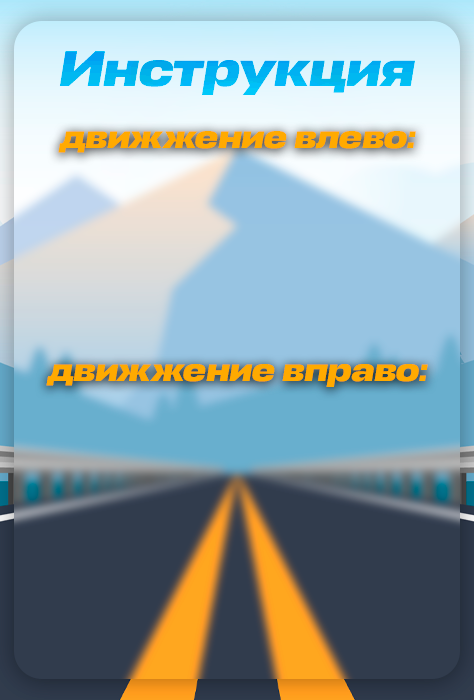
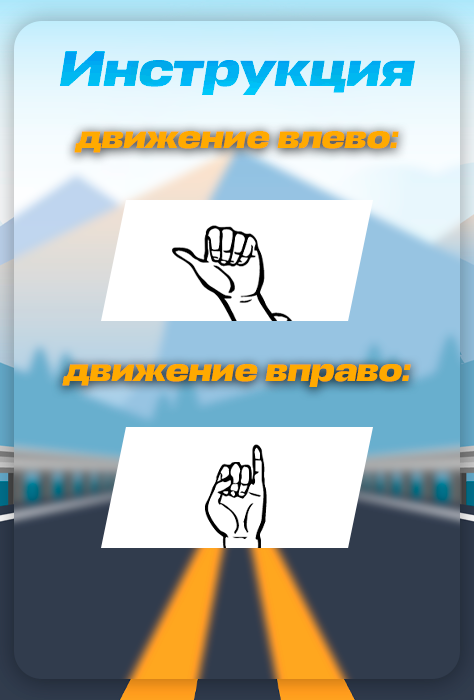
changed asset of main car

diff --git a/racer.py b/racer.py
@@ -8,6 +8,7 @@ from pygame import K_RIGHT, K_LEFT, K_SPACE, K_ESCAPE, K_a, K_d, KEYUP, KEYDOWN,
 
 # ==  Button Class  ==========================================================
 class button():
+
     """ Used to Create a button on the screen """
 
     def __init__(self, colour, x, y, width, height, text=" ", font_size=30, font_colour=(0, 0, 0)):
@@ -38,8 +39,7 @@ class button():
 # == Functions Used to Play game ==============================================
 def import_assets():
     """Import all the Required assets for the game"""
-    global playerImg, Car1, Car2, Car3, Car4, Car5, screen, path, background_home, background, road, Road2,\
-        instruction_image, crash, crash_sound
+    global playerImg, Car1, Car2, Car3, Car4, Car5, screen, path, background_home, background, help_bk, road, Road2, crash, crash_sound
     # Set the Directory path of the files, to get all the required assets for the game
     path = 'C:\\Users\\Honor\\Documents\\cv_game\\Assets\\Racer\\'
     try:
@@ -70,9 +70,8 @@ def import_assets():
             f"{path}", "road4lane.png"))                  # Road Image 1
         Road2 = pygame.image.load(join(
             f"{path}", "road4lane.png"))                 # Road Image 1
-        instruction_image = pygame.image.load(join(
-            f"{path}",'help_bk.png')) # Replace with your image path
-        instruction_image = pygame.transform.scale(instruction_image, (474, 700))
+        help_bk = pygame.image.load(join(
+            f"{path}", "help_bk.png"))                 # Road Image 1
         # Icon of the Game
         icon = pygame.image.load(join(f"{path}", 'Icon.png'))
         # Set Icon of the Game
@@ -97,7 +96,7 @@ def game_init():
     Screen_Widht, Screen_Height = 700, 700
     screen = pygame.display.set_mode((Screen_Widht, Screen_Height))
     # Set Caption of the Game
-    pygame.display.set_caption('Гонщик')
+    pygame.display.set_caption('Traffic_racer_car')
 
 # ============================================================================
 
@@ -126,11 +125,143 @@ def show_score():
     """Shows Score and Level on the Screen"""
     text_colour = (220, 47, 2)
     score_font = pygame.font.SysFont('benzin extrabold', 25, italic=True)
-    score = score_font.render("Score : " + str(score_value), True, text_colour)
-    screen.blit(score, (190, 0))
-    level = score_font.render(f"Level:- {level_value}", True, text_colour)
-    screen.blit(level, (420, 0))
+    score = score_font.render("Счет : " + str(score_value), True, text_colour)
+    screen.blit(score, (180, 0))
+    level = score_font.render(f"Уровень: {level_value}", True, text_colour)
+    screen.blit(level, (400, 0))
 
+# ============================================================================
+
+def Game_screen():
+    """Play Screen of the Game"""
+    global playerImg, Car1, Car2, Car3, Car4, Car5, other_cars, screen, playerX, playerY, playerX_change, score_value, level_value, cars_start_X, cars_start_y, background, road, Road2, crash, crash_sound, Screen_Widht, Screen_Height
+    Game_run_screen, Finnish, Exitt, home_start = True, False, False, False
+    speed_of_car, playerx_varchange, road_Y = 2, 5, 30
+    # = Screen Top Part ======================================================
+    # Top Screen-Part colour
+    top_colour = (241, 250, 238)
+    Home_Button = button(top_colour, 5, 2, 80, 25,
+                         text="Домой", font_size=20)     # Home Button
+    Exit_Button = button(top_colour, 615, 2, 80, 25,
+                         text="Выйти", font_size=20)   # Exit Button
+
+    Enemy_car = Enemy_car_coordinate()
+
+    # Play the Back-ground Music
+    mixer.music.load(join(f"{path}", "Assets\\back_music.wav"))
+    mixer.music.play(-1)
+
+    # Enemy Car's Images, it's X & Y Co-ordinates List, with First Enemy car too
+    car_enemy, car_enemy_x, car_enemy_y = [
+        Enemy_car[0]], [Enemy_car[1]], [Enemy_car[2]]
+
+    while Game_run_screen:
+        score_value_in = 0
+        # == Roads Y Co-ordinate ==========================
+        Road2_y = road_Y - Road2.get_height()
+        road_Y = road_Y % 620
+        # == Screen Background ===========================
+        pygame.draw.rect(screen, (94, 100, 114), [78, 0, 548, 680])
+        # Background Image
+        screen.blit(background, (0, 30))
+        # Road Image 1
+        screen.blit(road, (78, road_Y))
+        # Road Image 2
+        screen.blit(Road2, (78, Road2_y))
+
+        # =====================================================================
+        home_Button_button_active = Home_Button.hover(pygame.mouse.get_pos())
+        exit_Button_button_active = Exit_Button.hover(pygame.mouse.get_pos())
+
+        Home_Button.font_colour = (
+            235, 210, 5) if home_Button_button_active else (0, 0, 0)
+        Exit_Button.font_colour = (
+            255, 0, 0) if exit_Button_button_active else (0, 0, 0)
+        # =====================================================================
+
+        # Обработка событий в игровом цикле
+        for event in pygame.event.get():
+            if event.type == pygame.QUIT:  # Закрытие игры
+                Game_run_screen, Exitt = False, True
+
+            if event.type == pygame.MOUSEBUTTONDOWN:  # Клик мышью
+                if home_Button_button_active:
+                    Game_run_screen, home_start = False, True
+                if exit_Button_button_active:
+                    Game_run_screen, Exitt = False, True
+
+
+
+        if event.type == MOUSEBUTTONDOWN:          # Button's Click
+            if home_Button_button_active:
+                Game_run_screen, home_start = False, True
+            if exit_Button_button_active:
+                Game_run_screen, Exitt = False, True
+        # =====================================================================
+        playerX += playerX_change
+        # If Car Reaches at Left/Right Side of the Road stop moving car Left/Right
+        if playerX <= 130:
+            playerX = 130
+        elif playerX >= 515:
+            playerX = 515
+        # ==== Showing Non-Player on the Screen and check for collision with them ====
+        for x in range(len(car_enemy)):
+            # => Showing Non Player car on the Screen
+            screen.blit(car_enemy[x], (car_enemy_x[x], car_enemy_y[x]))
+            # ==  If Car not collided and at bottom of the screen  ===================
+            if car_enemy_y[x] >= 650:
+                car_enemy[x], car_enemy_x[x], car_enemy_y[x] = Enemy_car_coordinate()
+                score_value_in += 1
+                car_enemy_x.append(car_enemy_x[x])
+                car_enemy_y.append(car_enemy_y[x])
+                if score_value % 5 == 0 and score_value != 0:
+                    level_value += 1
+                    speed_of_car += 1
+                    playerx_varchange += 2
+                    if level_value < 3:
+                        Enemy_car0 = Enemy_car_coordinate()
+                        car_enemy.append(Enemy_car0[0])
+                        car_enemy_x.append(Enemy_car0[1])
+                        car_enemy_y.append(Enemy_car0[2])
+            # ======================================================================
+            # => Check for Collision
+            Collild = isCollision(
+                car_enemy_x[x], car_enemy_y[x], playerX, playerY)
+            if Collild:
+                screen.blit(crash, ((Screen_Widht/2 - crash.get_width()/2),
+                            (Screen_Height/2 - (crash.get_height()+1 / 2))))
+                crash_sound.play()
+                Finnish = True
+            car_enemy_y[x] += speed_of_car
+        if score_value_in >= 1:
+            score_value += 1
+            score_value_in = 0
+        # ==============================================
+        # Showing Player on the Screen
+        screen.blit(playerImg, (playerX, playerY))
+        # Rectangle at the Top of the screens
+        pygame.draw.rect(screen, top_colour, [0, 0, 700, 30])
+        # Blitting Home Button on the screen
+        Home_Button.draw(screen)
+        # Blitting Exit Button on the screen
+        Exit_Button.draw(screen)
+        # Show Score on the Top
+        show_score()
+        # Rectangle at the Bottom of the screen
+        pygame.draw.rect(screen, (145, 124, 111), [0, 680, 700, 50])
+        road_Y += speed_of_car                                      # Scrooling Road
+        # =====================================================================
+        pygame.display.update()
+        # =====================================================================
+        if Finnish:  # => If car's had collided then Game get's Finished
+            playerX_change = 0
+            sleep(1)
+            score_value, level_value = 0, 1
+            Game_run_screen, home_start = False, True
+        if home_start:
+            Home_screen()
+        if Exitt:
+            quit()
 # ============================================================================
 def Game_screen():
     """Play Screen of the Game"""
@@ -141,9 +272,9 @@ def Game_screen():
     # Top Screen-Part colour
     top_colour = (241, 250, 238)
     Home_Button = button(top_colour, 5, 2, 80, 25,
-                         text="Home", font_size=20)     # Home Button
+                         text="Назад", font_size=20)     # Home Button
     Exit_Button = button(top_colour, 615, 2, 80, 25,
-                         text="Exit", font_size=20)   # Exit Button
+                         text="Выход", font_size=20)   # Exit Button
 
     Enemy_car = Enemy_car_coordinate()
 
@@ -261,7 +392,7 @@ def Game_screen():
         if home_start:
             Home_screen()
         if Exitt:
-            return
+            quit()
 
 
 
@@ -270,9 +401,9 @@ def Home_screen():
     global screen, background_home, instruction_image
     home_run, Game_start, exitt, show_instructions = True, False, False, False
 
-    Game_run = button((255, 0, 0), 10, 600, 175, 125, text="Start")
-    Exit_but = button((255, 0, 0), 565, 600, 175, 125, text="Exit")
-    Instruction_but = button((255, 0, 0), 290, 600, 125, 75, text="Help")
+    Game_run = button((255, 0, 0), 15, 600, 130, 75, text="Старт")
+    Exit_but = button((255, 0, 0), 550, 600, 140, 75, text="Выйти")
+    Instruction_but = button((255, 0, 0), 260, 600, 180, 75, text="Помощь")
 
     while home_run:
         screen.fill((123, 70, 156))
@@ -315,11 +446,12 @@ def Home_screen():
         if show_instructions:
             # Display instruction image
             screen.fill((176, 176, 176))
-
+            # instruction_image = pygame.image.load('help_bk.png')  # Replace with your image path
+            instruction_image = pygame.transform.scale(help_bk, (474, 700))
             screen.blit(instruction_image, (115, 0))
 
             # Create "Back" button
-            Back_but = button((255, 0, 0), 290, 600, 125, 75, text="Back")
+            Back_but = button((255, 0, 0), 282, 600, 140, 75, text="Назад")
             pygame.draw.rect(screen, (18, 18, 18), (270, 588, 164, 100))
             Back_but.draw(screen)
 
@@ -348,7 +480,7 @@ def Home_screen():
         if Game_start:
             Game_screen()
         if exitt:
-            return
+            quit()
 
 # ============================================================================
 def start_racer():

diff --git a/main.py b/main.py
@@ -150,7 +150,7 @@ def start_pygame(test: bool = False) -> None:
                          start_racer)
                          # DIFFICULTY,
                          # pygame.font.Font(pygame_menu.font.FONT_FRANCHISE, 30))
-    play_menu.add.button('Стрелок',  # When pressing return -> play(DIFFICULTY[0], font)
+    play_menu.add.button('Космический защитник',  # When pressing return -> play(DIFFICULTY[0], font)
                          start_space_defender)
                          # DIFFICULTY,
                          # pygame.font.Font(pygame_menu.font.FONT_FRANCHISE, 30))
@@ -311,7 +311,7 @@ def synchronize_windows():
                 print('no windows')
                 break
 
-            opencv_window = gw.getWindowsWithTitle('test')[0]
+            opencv_window = gw.getWindowsWithTitle('1')[0]
 
             # Calculate new positions for the OpenCV window
             new_x = current_pygame_window.left + current_pygame_window.width + 1  # Offset to avoid overlap

diff --git a/cv_gesture.py b/cv_gesture.py
@@ -510,7 +510,7 @@ def gesture_control():
         prev_time = cur_time
         cv2.putText(Main_img, f'FPS:- {int(fps)}', (40, 40), Font_type, Font_size, (90, 140, 185), Font_thickness)
         # ======== Displaying the Main Image ===================================
-        title = 'test'.encode('utf-8').decode('latin-1')
+        title = '1' # .encode('utf-8').decode('windows-1251')
         # print(title)
         cv2.imshow(title, Main_img)
 
